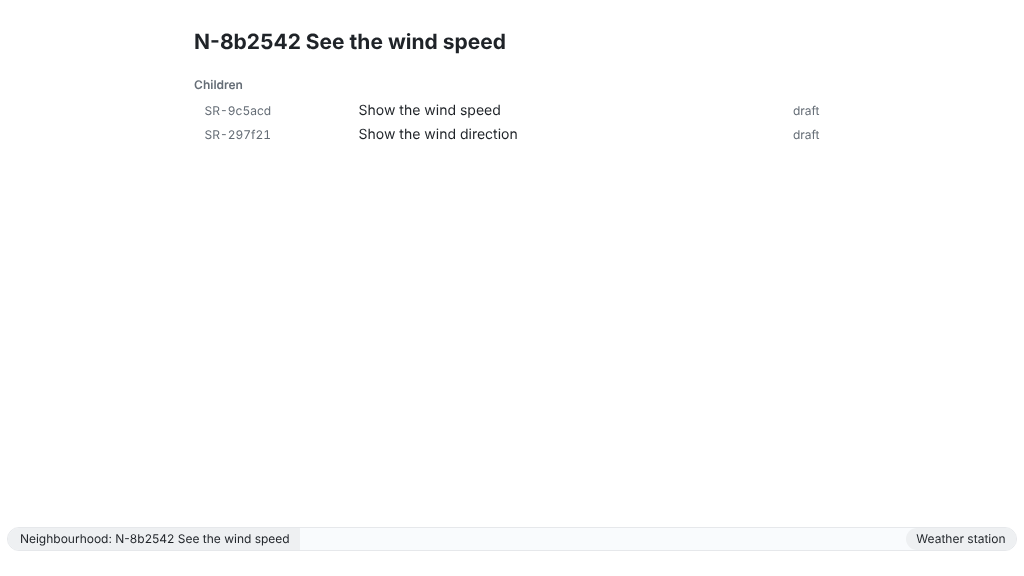
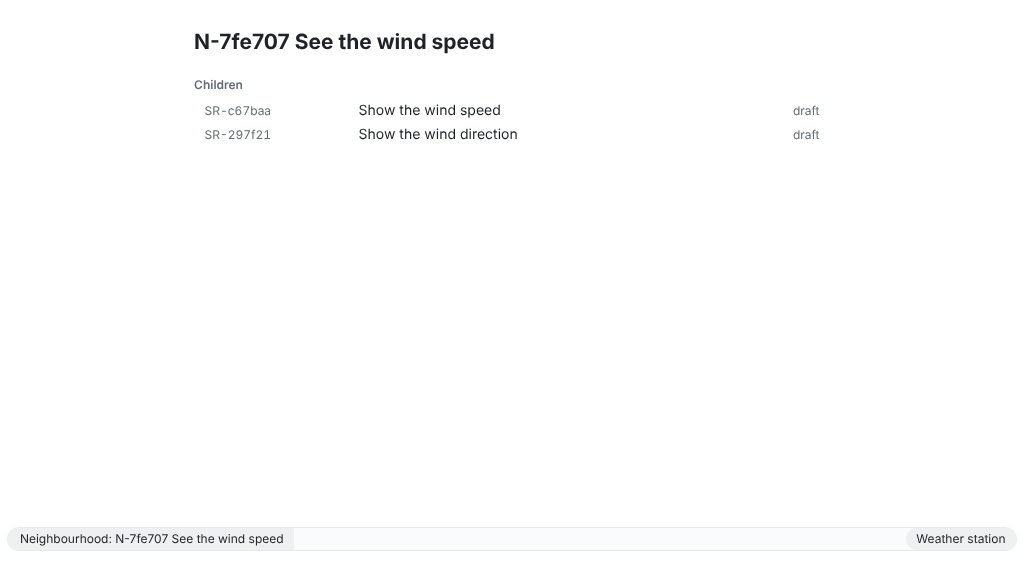
docs(guide): write guide images only through docs:screenshots
The spec writes docs/guide/images/ only with REQSEQ_GUIDE_IMAGES set,
which the new root script docs:screenshots does; a normal run writes
test-results/ only. The fixture now has the IDs that Get started prints.

Refs #344

Claude-Session: https://claude.ai/code/session_01M3bZgnY9k1p2b4rUqoCJYy

Changed region(s): [[0.2188, 0.0312, 0.5, 0.0938], [0.125, 0.9062, 0.2812, 0.9688], [0.2188, 0.1875, 0.25, 0.2188]]

diff --git a/packages/app/test/guide-screenshots.spec.ts b/packages/app/test/guide-screenshots.spec.ts
@@ -1,8 +1,9 @@
 // Screenshots of the app for the user documentation (ADR-0017, #344): the overview, an open requirement, the
 // command prompt and the neighbourhood of a need, on the fixed workspace `fixtures/enabler-344/weather-station`
-// (the elements of Get started), light, 1024×576. They are made on Linux only, where they go to
-// `docs/guide/images/` (the site's copy, committed after a run) and to `test-results/electron/guide-images/`
-// (the CI artifact); fonts differ between systems, so other systems skip them, and nothing compares pixels.
+// (the elements of Get started, with the same IDs), light, 1024×576. They go to
+// `test-results/electron/guide-images/` (the CI artifact), and with REQSEQ_GUIDE_IMAGES set (`pnpm docs:screenshots`)
+// also to `docs/guide/images/`, the site's copy, committed after a run; a normal run leaves tracked files alone. They
+// are made on Linux only, because fonts differ between systems, and nothing compares pixels.
 import fs from "node:fs/promises";
 import path from "node:path";
 import { fileURLToPath } from "node:url";
@@ -11,9 +12,10 @@ import type { Page } from "@playwright/test";
 import { launchApp } from "./support/app.js";
 
 const FIXTURE = { fixture: "enabler-344/weather-station" };
+const folder = (relative: string): string => fileURLToPath(new URL(`../../../${relative}`, import.meta.url));
 const FOLDERS = [
-  process.env["REQSEQ_GUIDE_IMAGES"] ?? fileURLToPath(new URL("../../../docs/guide/images", import.meta.url)),
-  fileURLToPath(new URL("../../../test-results/electron/guide-images", import.meta.url)),
+  folder("test-results/electron/guide-images"),
+  ...((process.env["REQSEQ_GUIDE_IMAGES"] ?? "") === "" ? [] : [folder("docs/guide/images")]),
 ];
 
 const candidates = (window: Page) => window.locator('.candidates [role="option"]');

diff --git a/docs/adr/0017-user-documentation-site.md b/docs/adr/0017-user-documentation-site.md
@@ -23,7 +23,7 @@ D-067: ReqSeq has documentation for its users, in Get started, How-to, Reference
 
 **How-to pages (SR-140 AK3).** Each page in `how-to/` has the sections `## App`, `## CLI`, `## API` and `## MCP`; where the task is not possible in an access, its section says so in one line. The CLI section holds the tested examples. The API section shows each request as an ```` ```http ```` block, `POST /v1/commands/<command>` and after a blank line the JSON input; the MCP section each tool call as a ```` ```json ```` block `{ "name": "<tool>", "arguments": {...} }` (a JSON block without `name`, such as a client configuration, is no call). `docs:generate` and the `[SR-140/AK3]` test refuse a how-to without one of the four sections, a bold name in `## App` that is no command prompt entry (`appCommandEntry`), and a command, tool or input field that `schemas/generated/` does not have. Options are not repeated: the pages link to the command reference. The user content of `docs/delivery/` is the how-to "Install ReqSeq"; its two files stay as pointers, since the release workflow links them. `toolchain/junit/README.md` stays the delivered guide for connecting a test tool (SR-063, read by its end-to-end test) until the delivery ships this site (SR-141); the how-to "Record test evidence from JUnit XML" refers to it.
 
-**Screenshots.** The app's pictures on the guide pages come from the Electron spec `packages/app/test/guide-screenshots.spec.ts`: it opens the fixed workspace `fixtures/enabler-344/weather-station` (the elements of Get started) in light mode at 1024×576, waits for each view to be complete, and writes `app-<view>.png` to `docs/guide/images/` and to the CI artifact (`test-results/electron/guide-images/`). It runs on Linux only, because fonts and anti-aliasing differ between systems; a run on the same system writes the same bytes. After a change to the app, the author runs the spec and commits the images. Nothing compares pixels, so CI never fails on a rendering detail. What CI enforces is that a page never shows a picture that is gone: `docs:generate` refuses an image (`![alt](path)`) without alt text or whose relative path names no file of the guide, and `images/` is the one folder outside the sections, for images only. Astro serves the files as they are (`passthroughImageService`), since its default service needs the native package Sharp.
+**Screenshots.** The app's pictures on the guide pages come from the Electron spec `packages/app/test/guide-screenshots.spec.ts`: it opens the fixed workspace `fixtures/enabler-344/weather-station` (the elements of Get started) in light mode at 1024×576, waits for each view to be complete, and writes `app-<view>.png` to the CI artifact (`test-results/electron/guide-images/`). Only `pnpm docs:screenshots` (Linux, under `xvfb-run` without a display) sets `REQSEQ_GUIDE_IMAGES`, so that the spec also writes `docs/guide/images/`; a normal test run changes no tracked file. It runs on Linux only, because fonts and anti-aliasing differ between systems; a run on the same system writes the same bytes. After a change to the app that the pictures show, the author runs `pnpm docs:screenshots` and commits the images; the fixture has the IDs Get started prints. Nothing compares pixels, so CI never fails on a rendering detail. What CI enforces is that a page never shows a picture that is gone: `docs:generate` refuses an image (`![alt](path)`) without alt text or whose relative path names no file of the guide, and `images/` is the one folder outside the sections, for images only. Astro serves the files as they are (`passthroughImageService`), since its default service needs the native package Sharp.
 
 **No network.** No web fonts, CDN or analytics; system font stacks. `packages/docs/site/run.mjs` starts Astro with telemetry and the update check off (`ASTRO_TELEMETRY_DISABLED`, `ASTRO_DISABLE_UPDATE_CHECK`). CI builds the site under `unshare -rn`, so a download during the build fails it.
 

diff --git a/fixtures/enabler-344/weather-station/system-requirement/SR-58b371c67baa.md b/fixtures/enabler-344/weather-station/system-requirement/SR-58b371c67baa.md
@@ -1,5 +1,5 @@
 ---
-id: dd7fe8a3-8e25-4d5d-a764-4416df9c5acd
+id: dd7fe8a3-8e25-4d5d-a764-58b371c67baa
 type: system-requirement
 status: draft
 title: Show the wind speed
@@ -8,7 +8,7 @@ acceptance-criteria:
   - The speed is shown in knots, with one decimal.
   - The value is at most 10 seconds old.
 derives-from:
-  - { id: e317eb3c-003e-4db9-b8bf-5406c78b2542, version: n1:fb44faedd7f27914, title: See the wind speed }
+  - { id: e317eb3c-003e-4db9-b8bf-d0e44b7fe707, version: n1:fb44faedd7f27914, title: See the wind speed }
 ---
 
 The station must show the wind speed in knots, updated every 10 seconds.

diff --git a/fixtures/enabler-344/weather-station/system-requirement/SR-8660d8297f21.md b/fixtures/enabler-344/weather-station/system-requirement/SR-8660d8297f21.md
@@ -7,7 +7,7 @@ requirement-type: functional
 acceptance-criteria:
   - The direction is shown in degrees from north.
 derives-from:
-  - { id: e317eb3c-003e-4db9-b8bf-5406c78b2542, version: n1:fb44faedd7f27914, title: See the wind speed }
+  - { id: e317eb3c-003e-4db9-b8bf-d0e44b7fe707, version: n1:fb44faedd7f27914, title: See the wind speed }
 ---
 
 The station must show where the wind comes from, in degrees.

diff --git a/fixtures/enabler-344/weather-station/system-requirement/SR-3c94a75e1d0a.md b/fixtures/enabler-344/weather-station/system-requirement/SR-3c94a75e1d0a.md
@@ -1,5 +1,5 @@
 ---
-id: a7e56998-5e4f-4074-9d48-d1f9663a1116
+id: a7e56998-5e4f-4074-9d48-3c94a75e1d0a
 type: system-requirement
 status: draft
 title: Warn of gusts

diff --git a/fixtures/enabler-344/weather-station/need/N-d0e44b7fe707.md b/fixtures/enabler-344/weather-station/need/N-d0e44b7fe707.md
@@ -1,5 +1,5 @@
 ---
-id: e317eb3c-003e-4db9-b8bf-5406c78b2542
+id: e317eb3c-003e-4db9-b8bf-d0e44b7fe707
 type: need
 status: draft
 title: See the wind speed
